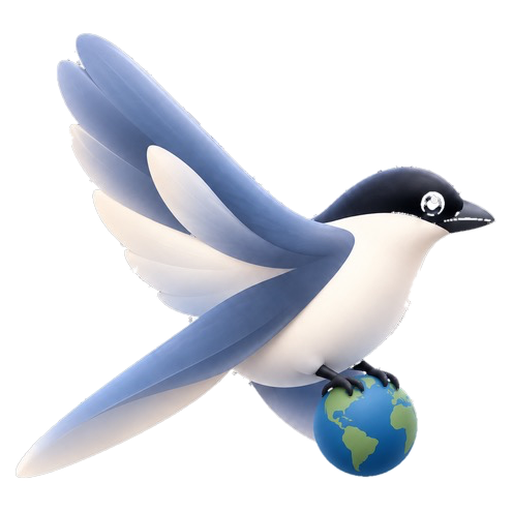
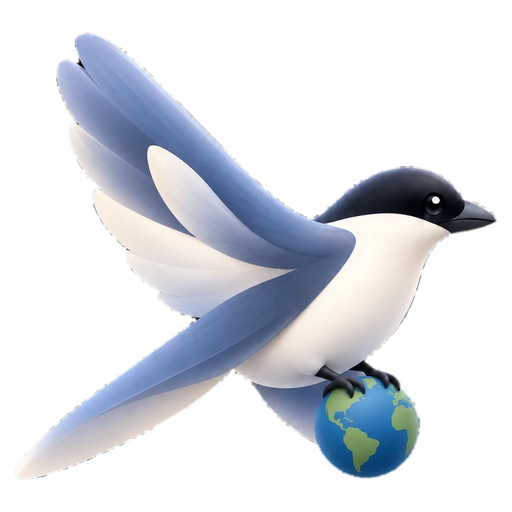
로고를 원본 그림에서 다시 오려낸다
지금까지 쓰던 그림은 흰 배경으로 다시 그려진 사본이었다. 외곽선에 검은
낱알이 점점이 찍혀 있었고, 눈은 흰 테·검은 테·회색 덩어리가 겹친 과녁
모양이라 눈으로 안 읽혔다. 받은 원본(검은 배경, 1254px)에는 그런 게 없다 —
눈은 윤기 있는 검은 눈에 흰 빛점 하나다.

그래서 사본을 고치려고 넣었던 낱알 지우기와 눈 다시 그리기를 걷어내고,
tools/make-logo.py 를 원본에서 바로 오려내는 일만 하게 다시 썼다.

검은 배경은 밝기만으로 자르면 두건과 부리까지 날아간다. 밝기 6 이하만
배경으로 보고 테두리에서 이어진 곳만 지운다 — 두건은 흰 몸통에 둘러싸여
테두리와 안 이어지므로 남는다. 가장자리 한 겹은 배경 검정이 배어 있어
밝은 화면에서 검은 테로 보이는데, 알파를 두 겹 깎고 살짝 흐려서 없앴다.
배경색(검정/흰색)은 테두리를 보고 알아서 고른다.

Claude-Session: https://claude.ai/code/session_0111yRyXzGisqdrG9SKT91iY

diff --git a/index.html b/index.html
@@ -13,10 +13,10 @@
 <link rel="stylesheet" crossorigin href="https://cdn.jsdelivr.net/gh/orioncactus/pretendard@v1.3.9/dist/web/static/pretendard.min.css">
 <link href="https://fonts.googleapis.com/css2?family=Space+Grotesk:wght@400;500;600;700&display=swap" rel="stylesheet">
 </noscript>
-<link rel="icon" href="img/magpie-64.png?v=20260913a">
-<link rel="apple-touch-icon" href="img/magpie-192.png?v=20260913a">
+<link rel="icon" href="img/magpie-64.png?v=20260913b">
+<link rel="apple-touch-icon" href="img/magpie-192.png?v=20260913b">
 <script>(function(){try{var m=localStorage.getItem('seji_theme')||(matchMedia('(prefers-color-scheme: light)').matches?'light':'dark');document.documentElement.dataset.theme=m;}catch(e){}})();</script>
-<link rel="stylesheet" href="css/main.css?v=20260913a">
+<link rel="stylesheet" href="css/main.css?v=20260913b">
 </head>
 <body>
 <button id="theme-toggle" type="button" title="화면 밝기 전환" onclick="toggleTheme()"></button>
@@ -28,7 +28,7 @@
       <path d="M-10 150 C 90 150 130 40 260 40 C 390 40 430 150 530 150"/>
     </svg>
     <div class="g3-lockup" aria-label="Geogl3">
-      <img class="g3-bird" src="img/magpie-512.png?v=20260913a" alt="" width="512" height="512" decoding="async"/>
+      <img class="g3-bird" src="img/magpie-512.png?v=20260913b" alt="" width="512" height="512" decoding="async"/>
       <div class="g3-logo">Geogl3</div>
     </div>
     <p class="ld-tag">See the world from above</p>
@@ -46,7 +46,7 @@
        예전에는 카드 안 "로그인하면…" 줄 **위**에 끼어 있어서, 세 사이트를 나란히
        놓으면 지오글만 브랜드가 본문 한복판에 뜬 것처럼 보였다. -->
   <footer class="ld-foot">
-    <a class="ld-brand" href="https://nepica.vercel.app" target="_blank" rel="noreferrer" aria-label="NEPICA 브랜드 사이트로 이동"><img src="img/nepica-64.png?v=20260913a" alt="" width="22" height="22" decoding="async"/><span>NEPICA</span></a>
+    <a class="ld-brand" href="https://nepica.vercel.app" target="_blank" rel="noreferrer" aria-label="NEPICA 브랜드 사이트로 이동"><img src="img/nepica-64.png?v=20260913b" alt="" width="22" height="22" decoding="async"/><span>NEPICA</span></a>
   </footer>
 
   <!-- 세부 옵션 시트 -->
@@ -4950,25 +4950,25 @@
     <button class="reb secondary" onclick="runPendingReset();document.getElementById('rbq-end').classList.remove('on')">다시 시작</button>
   </div>
 </div>
-<script src="js/data.js?v=20260913a"></script>
-<script src="js/rivers-data.js?v=20260913a"></script>
-<script src="js/climate-data.js?v=20260913a"></script>
-<script src="js/climate-map-data.js?v=20260913a"></script>
-<script src="js/app.js?v=20260913a"></script>
-<script src="js/climate.js?v=20260913a"></script>
-<script src="js/dict-data.js?v=20260913a"></script>
-<script src="js/flag-colors-data.js?v=20260913a"></script>
-<script src="js/flag-bg-data.js?v=20260913a"></script>
-<script src="js/wiki-style.js?v=20260913a"></script>
-<script src="js/dict.js?v=20260913a"></script>
-<script src="js/suteuk-data.js?v=20260913a"></script>
-<script src="js/suteuk.js?v=20260913a"></script>
-<script src="js/stat-data.js?v=20260913a"></script>
-<script src="js/stat.js?v=20260913a"></script>
+<script src="js/data.js?v=20260913b"></script>
+<script src="js/rivers-data.js?v=20260913b"></script>
+<script src="js/climate-data.js?v=20260913b"></script>
+<script src="js/climate-map-data.js?v=20260913b"></script>
+<script src="js/app.js?v=20260913b"></script>
+<script src="js/climate.js?v=20260913b"></script>
+<script src="js/dict-data.js?v=20260913b"></script>
+<script src="js/flag-colors-data.js?v=20260913b"></script>
+<script src="js/flag-bg-data.js?v=20260913b"></script>
+<script src="js/wiki-style.js?v=20260913b"></script>
+<script src="js/dict.js?v=20260913b"></script>
+<script src="js/suteuk-data.js?v=20260913b"></script>
+<script src="js/suteuk.js?v=20260913b"></script>
+<script src="js/stat-data.js?v=20260913b"></script>
+<script src="js/stat.js?v=20260913b"></script>
 <!-- ════════════════════════════════════════════════════════════
      계정 · 소셜로그인 · 랭킹 (Supabase) — 빌드/명령어 불필요, 이 파일만으로 동작
      ▼▼▼ 여기 두 줄만 본인 Supabase 값으로 바꾸면 끝 ▼▼▼ -->
-<script type="module" src="js/account.js?v=20260913a"></script>
+<script type="module" src="js/account.js?v=20260913b"></script>
 
 </body>
 </html>

diff --git a/tools/make-logo.py b/tools/make-logo.py
@@ -1,13 +1,18 @@
 #!/usr/bin/env python3
-"""로고 이미지 다듬기 — 흰 배경을 지우고 가장자리 점을 털어 낸 뒤 크기별로 뽑는다.
+"""로고 이미지 오려내기 — 배경을 지우고 크기별로 뽑는다.
 
     python3 tools/make-logo.py <원본.png>
 
-원본은 흰 배경에 물까치가 그려진 정사각 그림이다. 하는 일은 셋뿐이다.
-  1. 테두리에서 흰색을 따라 들어가며 배경만 투명하게 만든다.
-     (새 안쪽의 흰 배·날개는 배경과 이어져 있지 않아 살아남는다)
-  2. 새와 떨어져 있는 작은 점들을 지운다 — 원본 외곽선에 찍힌 검은 얼룩이다.
-  3. 여백을 고르게 두고 512·192·64로 줄여 img/ 에 쓴다.
+원본은 단색 배경(검정 또는 흰색) 위에 물까치가 그려진 정사각 그림이다.
+배경색은 테두리 픽셀을 보고 알아서 고른다.
+
+검정 배경이 까다롭다. 물까치의 두건과 부리도 어두워서 밝기만으로 자르면
+같이 날아간다. 그래서 '아주 어두운 것(밝기 6 이하)'만 배경으로 보고,
+테두리에서 이어진 곳만 지운다 — 두건은 흰 몸통에 둘러싸여 있어 테두리와
+이어지지 않으므로 살아남는다.
+
+가장자리 한 겹은 배경색이 섞여 있어 그대로 두면 밝은 화면에서 검은 테처럼
+보인다. 알파를 한 겹 깎아 낸 뒤 살짝 흐려서 매끈하게 만든다.
 색은 손대지 않는다.
 """
 import sys, collections
@@ -16,32 +21,24 @@ import numpy as np
 
 SRC = sys.argv[1] if len(sys.argv) > 1 else 'logo.png'
 OUT = {'img/magpie-512.png': 512, 'img/magpie-192.png': 192, 'img/magpie-64.png': 64}
-WHITE = 238          # 이 값보다 밝고 색기 없는 픽셀을 배경 후보로 본다
-CHROMA = 14          # R·G·B 차이가 이만큼 안 나면 무채색(=흰 배경)
-SPECK = 0.0008       # 전체 넓이의 이 비율보다 작은 조각은 얼룩으로 보고 지운다
-DOT = 46             # 주변보다 이만큼 어두운 낱알은 외곽선 얼룩으로 보고 지운다
+DARK_BG = 6          # 검정 배경으로 볼 밝기 상한 (두건은 16 이상이라 안전하다)
+LIGHT_BG = 238       # 흰 배경으로 볼 밝기 하한
+CHROMA = 14          # 무채색 판정 — 흰 배경일 때만 쓴다
+ERODE = 2            # 알파를 깎아 낼 두께(px, 원본 기준) — 배경색이 밴 테두리를 턴다
+MARGIN = 1.06        # 정사각으로 맞출 때 둘레 여백
 
 im = Image.open(SRC).convert('RGB')
-
-# ── 0. 윤곽을 따라 찍힌 검은 낱알 지우기 ──
-#   주변 median 보다 뚜렷하게 어두운 픽셀만 median 색으로 덮는다.
-#   머리·부리처럼 넓게 검은 곳은 제 주변도 같이 어두워서 median 과 차이가
-#   없으므로 그대로 남는다 — 낱알만 골라 없어진다.
-med = im.filter(ImageFilter.MedianFilter(5))
-o = np.asarray(im).astype(np.int16)
-m = np.asarray(med).astype(np.int16)
-speck = (m.mean(axis=2) - o.mean(axis=2)) > DOT
-o[speck] = m[speck]
-print(f'외곽선 얼룩 {int(speck.sum())}픽셀을 주변 색으로 덮음')
-im = Image.fromarray(o.astype(np.uint8))
-
 a = np.asarray(im).astype(np.int16)
 h, w = a.shape[:2]
-bright = a.max(axis=2) >= WHITE
-flat = (a.max(axis=2) - a.min(axis=2)) <= CHROMA
-bg_like = bright & flat
+lum = a.mean(axis=2)
 
-# ── 1. 테두리에서 흰 배경만 번져 들어간다 ──
+edge = np.concatenate([lum[0], lum[-1], lum[:, 0], lum[:, -1]])
+dark = np.median(edge) < 128
+bg_like = lum <= DARK_BG if dark else (
+    (lum >= LIGHT_BG) & ((a.max(axis=2) - a.min(axis=2)) <= CHROMA))
+print(('검은' if dark else '흰') + f' 배경 · 테두리 밝기 중앙값 {np.median(edge):.1f}')
+
+# ── 테두리에서 이어진 배경만 번져 들어간다 ──
 seen = np.zeros((h, w), bool)
 q = collections.deque()
 for x in range(w):
@@ -54,44 +51,24 @@ for y in range(h):
             seen[y, x] = True; q.append((y, x))
 while q:
     y, x = q.popleft()
-    for dy, dx in ((1,0),(-1,0),(0,1),(0,-1)):
+    for dy, dx in ((1, 0), (-1, 0), (0, 1), (0, -1)):
         ny, nx = y + dy, x + dx
         if 0 <= ny < h and 0 <= nx < w and not seen[ny, nx] and bg_like[ny, nx]:
             seen[ny, nx] = True; q.append((ny, nx))
+print(f'배경 {seen.sum() * 100.0 / seen.size:.1f}% 지움')
 
-solid = ~seen
-
-# ── 2. 새와 떨어진 작은 조각(외곽선 얼룩) 털어 내기 ──
-label = np.zeros((h, w), np.int32)
-sizes = [0]
-cur = 0
-for sy in range(h):
-    for sx in range(w):
-        if not solid[sy, sx] or label[sy, sx]:
-            continue
-        cur += 1; n = 0
-        st = [(sy, sx)]; label[sy, sx] = cur
-        while st:
-            y, x = st.pop(); n += 1
-            for dy, dx in ((1,0),(-1,0),(0,1),(0,-1)):
-                ny, nx = y + dy, x + dx
-                if 0 <= ny < h and 0 <= nx < w and solid[ny, nx] and not label[ny, nx]:
-                    label[ny, nx] = cur; st.append((ny, nx))
-        sizes.append(n)
-keep = {i for i, n in enumerate(sizes) if i and n >= SPECK * h * w}
-solid = np.isin(label, list(keep))
-dropped = len(sizes) - 1 - len(keep)
-
-# ── 3. 알파 만들고, 여백 고르게 두고, 크기별로 ──
-alpha = Image.fromarray((solid * 255).astype(np.uint8))
-alpha = alpha.filter(ImageFilter.GaussianBlur(0.8))      # 가장자리 계단 없애기
+# ── 알파: 한 겹 깎고 살짝 흐리기 ──
+alpha = Image.fromarray(((~seen) * 255).astype(np.uint8))
+alpha = alpha.filter(ImageFilter.MinFilter(2 * ERODE + 1))
+alpha = alpha.filter(ImageFilter.GaussianBlur(ERODE * 0.7))
 im.putalpha(alpha)
+
+# ── 여백 고르게 두고 크기별로 ──
 box = alpha.point(lambda v: 255 if v > 8 else 0).getbbox()
 im = im.crop(box)
-side = int(max(im.size) * 1.06)                          # 6% 여백
+side = int(max(im.size) * MARGIN)
 pad = Image.new('RGBA', (side, side), (0, 0, 0, 0))
 pad.paste(im, ((side - im.size[0]) // 2, (side - im.size[1]) // 2))
 for path, n in OUT.items():
     pad.resize((n, n), Image.LANCZOS).save(path)
-print(f'조각 {len(sizes)-1}개 중 얼룩 {dropped}개 제거 · 잘라낸 영역 {box} · 정사각 {side}px')
-print('  →', ', '.join(OUT))
+print(f'잘라낸 영역 {box} · 정사각 {side}px →', ', '.join(OUT))
